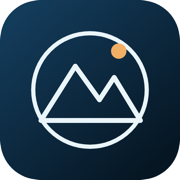
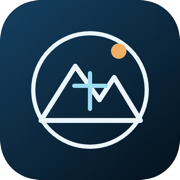
Refine Flaine emblem with alpine T

Changed region(s): [[0.3889, 0.3889, 0.6111, 0.6111]]

diff --git a/index.html b/index.html
@@ -35,7 +35,7 @@
         <div class="panel-inner"><div class="panel-content"><nav class="menu" aria-label="Tomes destinations">
           <div class="primary">
             <a class="destination" href="/musings/"><span class="emblem musing" aria-hidden="true">m</span><small>Musings</small></a>
-            <a class="destination" href="/snow/"><span class="emblem ski" aria-hidden="true"><svg viewBox="0 0 50 50" width="34" fill="none"><circle cx="25" cy="25" r="20" stroke="currentColor" stroke-width="1.5"/><path d="m7 34 13-20 9 13 5-8 10 15H7Z" stroke="currentColor" stroke-linecap="round" stroke-linejoin="round" stroke-width="1.8"/><circle cx="34" cy="11" r="3" fill="#f1ae65"/></svg></span><small>Ski trips</small></a>
+            <a class="destination" href="/snow/"><span class="emblem ski" aria-hidden="true"><svg viewBox="0 0 50 50" width="34" fill="none"><circle cx="25" cy="25" r="20" stroke="currentColor" stroke-width="1.5"/><path d="m7 34 13-20 9 13 5-8 10 15H7Z" stroke="currentColor" stroke-linecap="round" stroke-linejoin="round" stroke-width="1.8"/><path d="M25 18v18M18 24h14" stroke="#9bdcf1" stroke-linecap="round" stroke-width="1.7"/><circle cx="34" cy="11" r="3" fill="#f1ae65"/></svg></span><small>Ski trips</small></a>
             <a class="destination" href="https://karaoke.tomes.me/" target="_blank" rel="noopener"><span class="emblem mic" aria-hidden="true"><svg viewBox="0 0 64 64" width="34" fill="none"><defs><linearGradient id="karaoke-gradient" x1="10" x2="54" y1="8" y2="56"><stop stop-color="#ff9d2e"/><stop offset=".56" stop-color="#ff5b55"/><stop offset="1" stop-color="#ff47b7"/></linearGradient></defs><circle cx="32" cy="32" r="27" stroke="url(#karaoke-gradient)" stroke-width="2"/><path d="M22 17.5a10 10 0 0 1 20 0v15a10 10 0 0 1-20 0v-15ZM17 31.5c0 8.3 6.7 15 15 15s15-6.7 15-15M32 46.5V55M24 55h16" stroke="url(#karaoke-gradient)" stroke-linecap="round" stroke-width="2.5"/></svg></span><small>Tomes Karaoke</small></a>
             <a class="destination" href="https://christmas.tomes.me/" target="_blank" rel="noopener"><span class="emblem" aria-hidden="true"><svg viewBox="0 0 64 64" width="34" fill="none"><circle cx="32" cy="32" r="27" stroke="currentColor" stroke-width="2.5"/><path d="M19.4 23.4h25.2M32 23.4v25M20.5 22.5l3.5-4.8m1.5 4.8 3.1-5.1m2.6 5.1 2.4-5.1m2.6 5.1 2.4-5.1m2.6 5.1 3.1-4.8M20.5 24.3l3.5 4.8m1.5-4.8 3.1 5.1m2.6-5.1 2.4 5.1m2.6-5.1 2.4 5.1m2.6-5.1 3.1 4.8" stroke="currentColor" stroke-linecap="round" stroke-width="1.8"/><path d="m32 8.5 1.55 4.45L38 14.5l-4.45 1.55L32 20.5l-1.55-4.45L26 14.5l4.45-1.55L32 8.5Z" fill="currentColor"/></svg></span><small>Tomes Christmas</small></a>
           </div>

diff --git a/snow/index.html b/snow/index.html
@@ -26,7 +26,7 @@
 <body>
   <main>
     <section class="hero"><div class="container">
-      <header class="masthead"><div class="identity"><span class="emblem" aria-hidden="true"><svg viewBox="0 0 50 50" width="34" fill="none"><path d="M5 38 20 14l10 14 6-9 10 19H5Z" stroke="currentColor" stroke-width="1.5"/><circle cx="37" cy="12" r="3" fill="#f1ae65"/></svg></span><span>FLAINE / 27<small>THE GRAND MASSIF</small></span></div><a href="#conditions">Mountain report</a></header>
+      <header class="masthead"><div class="identity"><span class="emblem" aria-hidden="true"><svg viewBox="0 0 50 50" width="34" fill="none"><path d="M5 38 20 14l10 14 6-9 10 19H5Z" stroke="currentColor" stroke-width="1.5"/><path d="M25 18v18M18 24h14" stroke="#9bdcf1" stroke-linecap="round" stroke-width="1.7"/><circle cx="37" cy="12" r="3" fill="#f1ae65"/></svg></span><span>FLAINE / 27<small>THE GRAND MASSIF</small></span></div><a href="#conditions">Mountain report</a></header>
       <div class="hero-content"><div class="eyebrow">Saturday, 13 February 2027 · French Alps</div><h1>Back to the <span>mountains.</span></h1><p class="lede">One week in the high country: snow, long lunches, good company and room to roam.</p><div class="departure"><div class="countdown"><b data-countdown>—</b><span>days until<br>we leave</span></div><a class="sheet" data-sheet target="_blank" rel="noopener">Sort your ski hire</a></div></div>
     </div></section>
     <section class="report" id="conditions"><div class="container">
